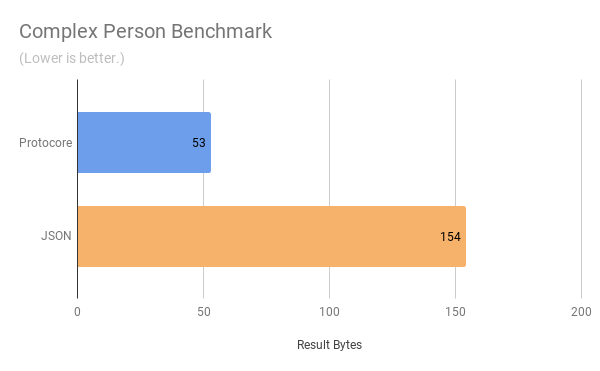
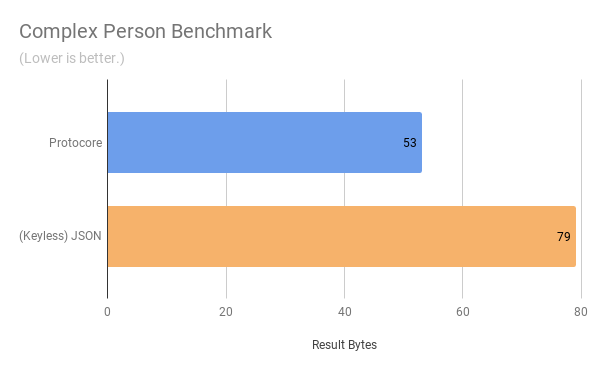
Update bench to use keyless JSON

diff --git a/bench.js b/bench.js
@@ -52,12 +52,61 @@ const sets = [
 				}
 			]
 		}
+	},
+	{
+		'name': 'Building',
+		'schema': new Schema([
+			{
+				'name': 'title',
+				'type': types.string
+			},
+			{
+				'name': 'number',
+				'type': types.uint,
+				'size': 16
+			},
+			{
+				'name': 'residents',
+				'type': types.list,
+				'of': new Schema([
+					{
+						'name': 'firstName',
+						'type': types.string
+					},
+					{
+						'name': 'age',
+						'type': types.uint,
+						'size': 8
+					}
+				])
+			}
+		]),
+		'data': {
+			'title': 'Home',
+			'number': 19,
+			'residents': [
+				{
+					'firstName': 'James',
+					'age': 255
+				},
+				{
+					'firstName': 'Ethan',
+					'age': 5
+				},
+				{
+					'firstName': 'Laruel',
+					'age': 255
+				}
+			]
+		}
 	}
 ]
 
 for (let i = 0; i < sets.length; i++) {
 	console.log('\nBench set: ' + sets[i].name)
 
-	console.log('JSON size: ' + Buffer.from(JSON.stringify(sets[i].data)).length + ' bytes')
-	console.log('Protocore size: ' + sets[i].schema.build(sets[i].data).length + ' bytes')
+	const arrdata = Object.values(sets[i].data).map((v) => Array.isArray(v) ? v.map((vd) => Object.values(vd)) : v)
+
+	console.log('Keyless JSON size: ' + Buffer.from(JSON.stringify(arrdata)).length + ' bytes')
+	console.log('Protocore (inherently keyless) size: ' + sets[i].schema.build(sets[i].data).length + ' bytes')
 }
